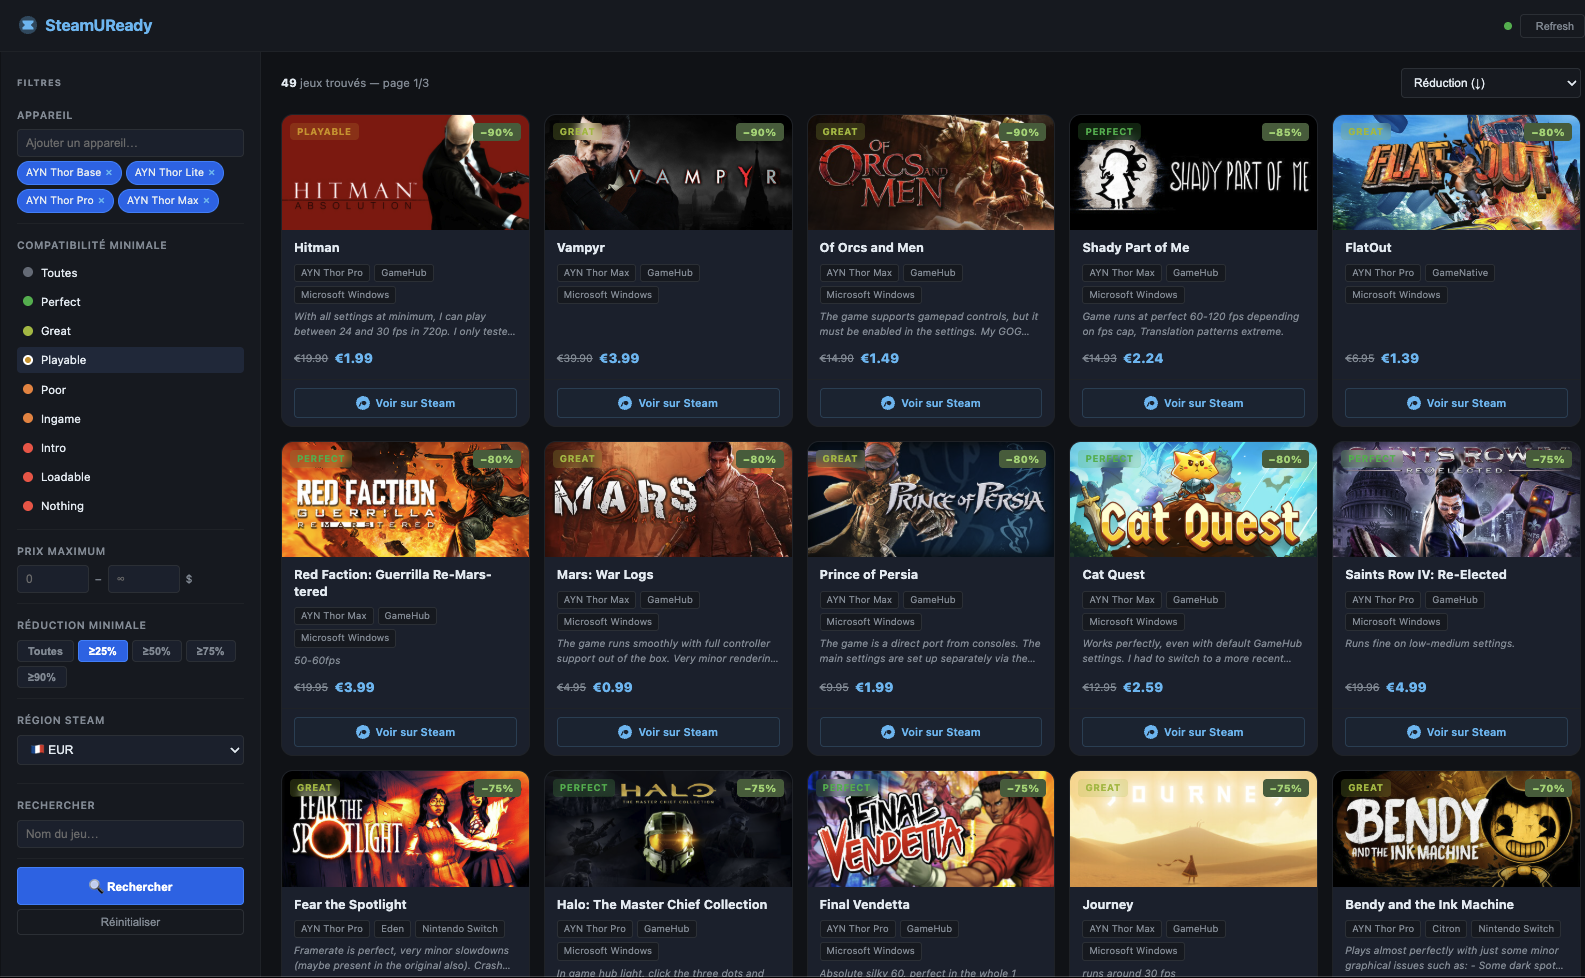
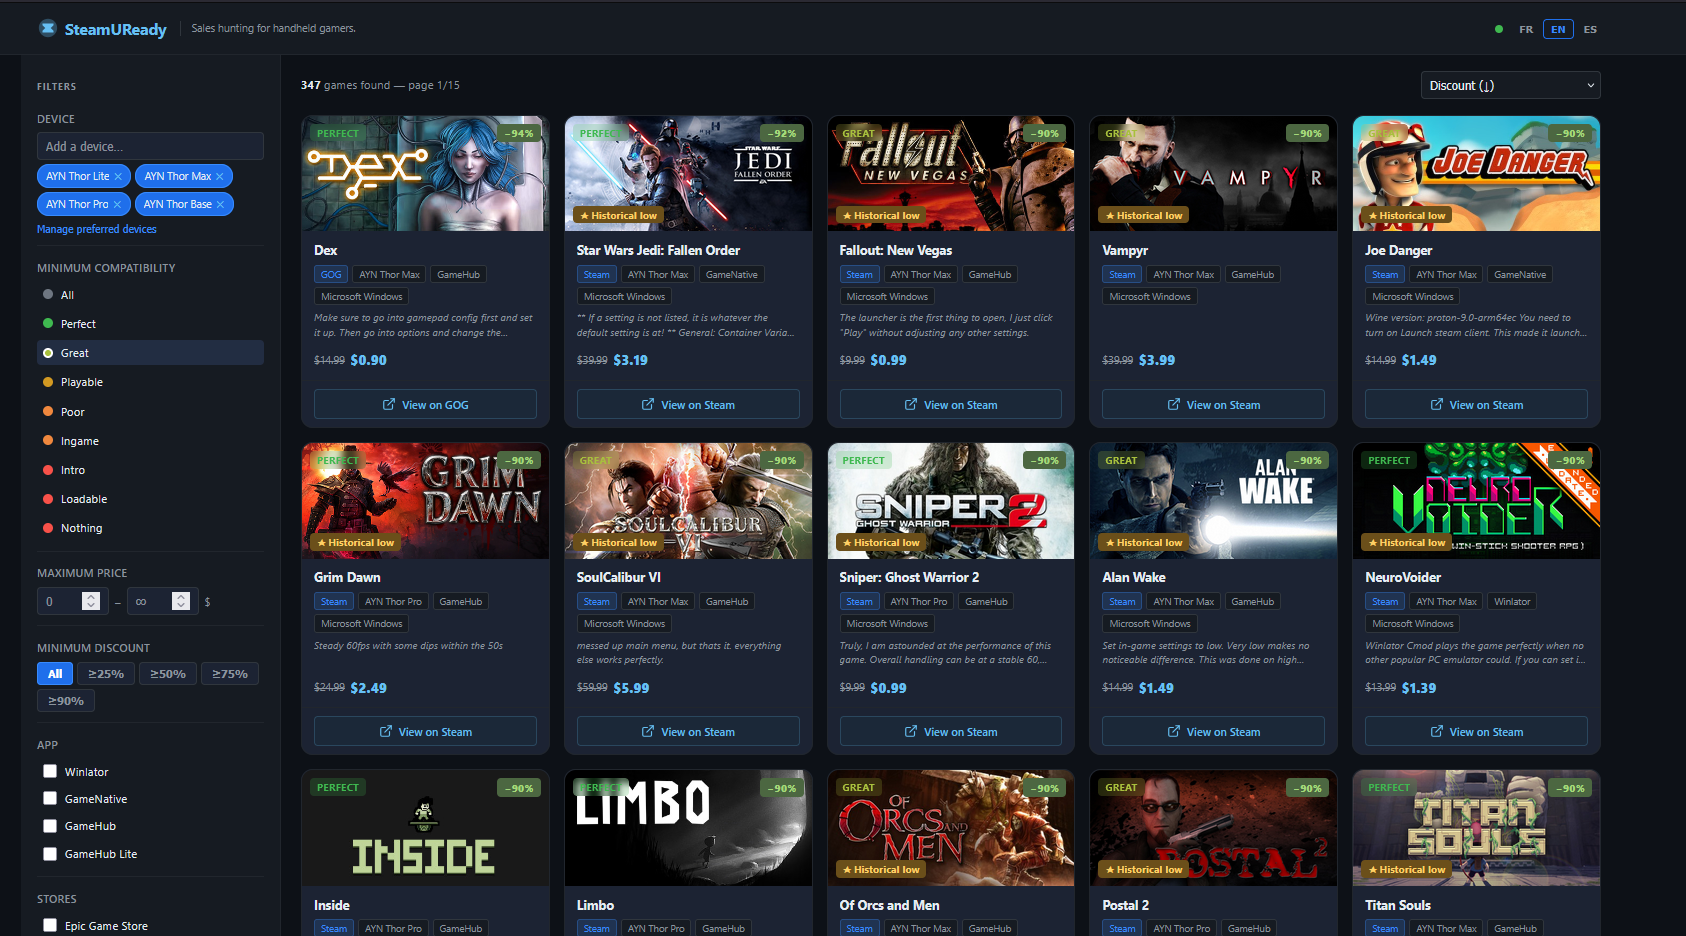
key prep, small ui changes

diff --git a/public/app.js b/public/app.js
@@ -160,14 +160,23 @@ function populateDevices(devices) {
 
 function onDeviceInput() {
   const q = el.deviceSearch.value.trim().toLowerCase();
-  const matches = q
-    ? state.devices.filter(d => d.name.toLowerCase().includes(q) && !_selectedDevices.has(d.id))
-        .sort((a, b) => (a.name || '').localeCompare(b.name || '')).slice(0, 60)
-    : state.devices.filter(d => !_selectedDevices.has(d.id)).slice(0, 60);
-  renderDropdown(matches, q);
+  if (q) {
+    const matches = state.devices
+      .filter(d => d.name.toLowerCase().includes(q) && !_selectedDevices.has(d.id))
+      .sort((a, b) => (a.name || '').localeCompare(b.name || ''))
+      .slice(0, 60);
+    renderDropdown(matches, q);
+  } else {
+    // Top 20 most popular, sorted alphabetically, with hint
+    const top20 = state.devices
+      .filter(d => !_selectedDevices.has(d.id))
+      .slice(0, 20)
+      .sort((a, b) => (a.name || '').localeCompare(b.name || ''));
+    renderDropdown(top20, '', true);
+  }
 }
 
-function renderDropdown(devices, q = '') {
+function renderDropdown(devices, q = '', showHint = false) {
   el.deviceDropdown.innerHTML = '';
   _deviceFocusIdx = -1;
   if (!devices.length) {
@@ -182,6 +191,12 @@ function renderDropdown(devices, q = '') {
       div.addEventListener('mousedown', e => { e.preventDefault(); addDevice(d); });
       el.deviceDropdown.appendChild(div);
     });
+    if (showHint) {
+      const hint = document.createElement('div');
+      hint.className = 'device-opt-hint';
+      hint.textContent = t('deviceSearchHint');
+      el.deviceDropdown.appendChild(hint);
+    }
   }
   el.deviceDropdown.hidden = false;
 }
@@ -348,7 +363,7 @@ function prefRenderChips() {
   if (atMax) prefEl.dropdown.hidden = true;
 }
 
-function prefRenderDropdown(devices, q = '') {
+function prefRenderDropdown(devices, q = '', showHint = false) {
   prefEl.dropdown.innerHTML = '';
   _prefDeviceFocusIdx = -1;
   if (!devices.length) {
@@ -363,6 +378,12 @@ function prefRenderDropdown(devices, q = '') {
       div.addEventListener('mousedown', e => { e.preventDefault(); prefAddDevice(d); });
       prefEl.dropdown.appendChild(div);
     });
+    if (showHint) {
+      const hint = document.createElement('div');
+      hint.className = 'device-opt-hint';
+      hint.textContent = t('deviceSearchHint');
+      prefEl.dropdown.appendChild(hint);
+    }
   }
   prefEl.dropdown.hidden = false;
 }
@@ -377,21 +398,36 @@ function prefAddDevice(d) {
   _prefDeviceFocusIdx = -1;
 }
 
+function getPrefDeviceMatches(q) {
+  if (q) {
+    return {
+      matches: state.devices
+        .filter(d => d.name.toLowerCase().includes(q) && !_prefSelectedDevices.has(d.id))
+        .sort((a, b) => (a.name || '').localeCompare(b.name || ''))
+        .slice(0, 60),
+      hint: false,
+    };
+  }
+  return {
+    matches: state.devices
+      .filter(d => !_prefSelectedDevices.has(d.id))
+      .slice(0, 20)
+      .sort((a, b) => (a.name || '').localeCompare(b.name || '')),
+    hint: true,
+  };
+}
+
 function initPreferredDevicesModal() {
   prefEl.search.addEventListener('input', () => {
     const q = prefEl.search.value.trim().toLowerCase();
-    const matches = q
-      ? state.devices.filter(d => d.name.toLowerCase().includes(q) && !_prefSelectedDevices.has(d.id)).slice(0, 60)
-      : state.devices.filter(d => !_prefSelectedDevices.has(d.id)).slice(0, 60);
-    prefRenderDropdown(matches, q);
+    const { matches, hint } = getPrefDeviceMatches(q);
+    prefRenderDropdown(matches, q, hint);
   });
 
   prefEl.search.addEventListener('focus', () => {
     const q = prefEl.search.value.trim().toLowerCase();
-    const matches = q
-      ? state.devices.filter(d => d.name.toLowerCase().includes(q) && !_prefSelectedDevices.has(d.id)).slice(0, 60)
-      : state.devices.filter(d => !_prefSelectedDevices.has(d.id)).slice(0, 60);
-    prefRenderDropdown(matches, q);
+    const { matches, hint } = getPrefDeviceMatches(q);
+    prefRenderDropdown(matches, q, hint);
   });
 
   prefEl.search.addEventListener('keydown', e => {

diff --git a/public/i18n.js b/public/i18n.js
@@ -11,6 +11,7 @@ const translations = {
     deviceMaxReached:       n => `Maximum ${n} appareils`,
     deviceRemove:           'Retirer',
     deviceNoResults:        'Aucun résultat',
+    deviceSearchHint:       'Top 20 populaires — tapez pour en voir plus',
     compatMin:              'Compatibilité minimale',
     compatAll:              'Toutes',
     priceMax:               'Prix maximum',
@@ -39,6 +40,7 @@ const translations = {
     viewOnStore:            store => `Voir sur ${store}`,
     errorTitle:             'Erreur',
     noResults:              'Aucun résultat',
+    tagline:                'La chasse aux promos pour les gamers nomades.',
     statusApi:              'Status API',
     regionNoteBR:           "Prix souvent plus bas qu'en USD",
     regionNoteTR:           'Prix très réduits — promos parfois différentes',
@@ -67,6 +69,7 @@ const translations = {
     deviceMaxReached:       n => `Max ${n} devices selected`,
     deviceRemove:           'Remove',
     deviceNoResults:        'No results',
+    deviceSearchHint:       'Top 20 most popular — type to see more',
     compatMin:              'Minimum compatibility',
     compatAll:              'All',
     priceMax:               'Maximum price',
@@ -95,6 +98,7 @@ const translations = {
     viewOnStore:            store => `View on ${store}`,
     errorTitle:             'Error',
     noResults:              'No results',
+    tagline:                'Sales hunting for handheld gamers.',
     statusApi:              'API Status',
     regionNoteBR:           'Often cheaper than USD',
     regionNoteTR:           'Very low prices — sales sometimes different',
@@ -123,6 +127,7 @@ const translations = {
     deviceMaxReached:       n => `Máximo ${n} dispositivos`,
     deviceRemove:           'Quitar',
     deviceNoResults:        'Sin resultados',
+    deviceSearchHint:       'Top 20 más populares — escribe para ver más',
     compatMin:              'Compatibilidad mínima',
     compatAll:              'Todas',
     priceMax:               'Precio máximo',
@@ -151,6 +156,7 @@ const translations = {
     viewOnStore:            store => `Ver en ${store}`,
     errorTitle:             'Error',
     noResults:              'Sin resultados',
+    tagline:                'Cazando ofertas para gamers portátiles.',
     statusApi:              'Estado de la API',
     regionNoteBR:           'A menudo más barato que USD',
     regionNoteTR:           'Precios muy bajos — ofertas a veces distintas',

diff --git a/public/style.css b/public/style.css
@@ -60,6 +60,12 @@ body {
   flex-shrink: 0;
 }
 .logo svg { width: 22px; height: 22px; }
+.tagline {
+  font-size: .75rem; color: var(--muted);
+  border-left: 1px solid var(--border-light);
+  padding-left: 10px; margin-left: 2px;
+  white-space: nowrap;
+}
 .header-actions { display: flex; align-items: center; gap: 8px; margin-left: auto; }
 .status-dot {
   width: 8px; height: 8px; border-radius: 50%;
@@ -405,6 +411,7 @@ select option { background: var(--card); }
 .device-opt:last-child { border-bottom: none; }
 .device-opt:hover, .device-opt.focused { background: var(--card-hover); color: var(--text); }
 .device-opt-empty { padding: 8px 10px; font-size: .8rem; color: var(--muted); font-style: italic; }
+.device-opt-hint { padding: 6px 10px; font-size: .75rem; color: var(--muted); font-style: italic; border-top: 1px solid var(--border); text-align: center; }
 
 .device-chips {
   display: flex; flex-wrap: wrap; gap: 4px; margin-top: 4px;

diff --git a/services/emuready.js b/services/emuready.js
@@ -6,6 +6,7 @@ const HEADERS = {
   'User-Agent': 'Mozilla/5.0 (Windows NT 10.0; Win64; x64) AppleWebKit/537.36 (KHTML, like Gecko) Chrome/120.0.0.0 Safari/537.36',
   'Accept': 'application/json',
   'Referer': 'https://www.emuready.com/listings',
+  ...(process.env.EMUREADY_API_KEY ? { 'x-api-key': process.env.EMUREADY_API_KEY } : {}),
 };
 
 const TTL = 30 * 60 * 1000; // 30 min

diff --git a/public/index.html b/public/index.html
@@ -48,6 +48,7 @@
       </svg>
       SteamUReady
     </h1>
+    <span class="tagline" data-i18n="tagline">Sales hunting for handheld gamers.</span>
 
     <div class="header-actions">
       <span class="cache-label" id="cacheLabel"></span>

diff --git a/TODO.md b/TODO.md
@@ -17,10 +17,8 @@
 - [x] Fix where Seeing some 0% reduction
 - [x] Limit max device selection
 - [x] Rate Limiting (1 per 30 sec)
-- [ ] Konami code easter egg
+- [x] Konami code easter egg
+- [x] Change default devices on click to top 20 alphabetical
 - [ ] Using GameNative as source alongside emuready
 - [ ] Filter/Sorting by reviews (will need to get data as part of cache warmer, and not get it otherwise)
 
-Moral Needs
-Contact Emuready sure im not breaking any rules
-Contact ITAD to make sure im not breaking their TOS
